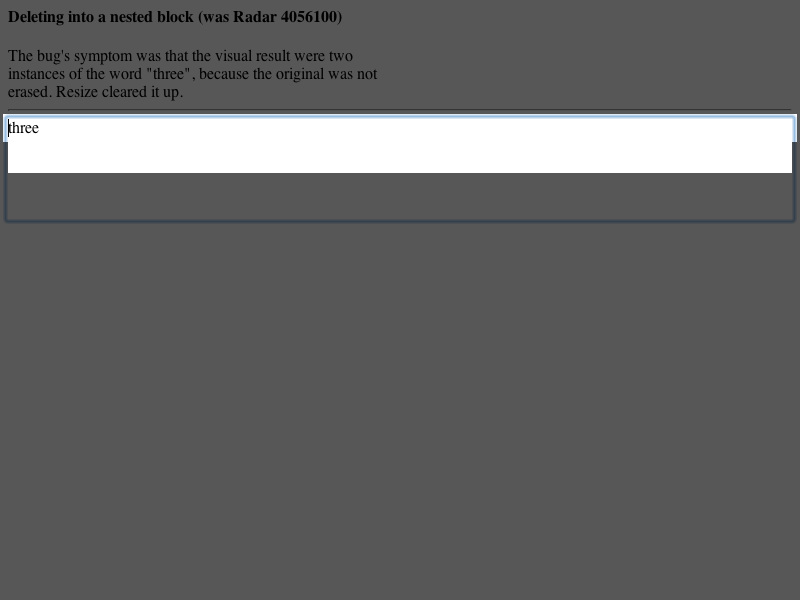
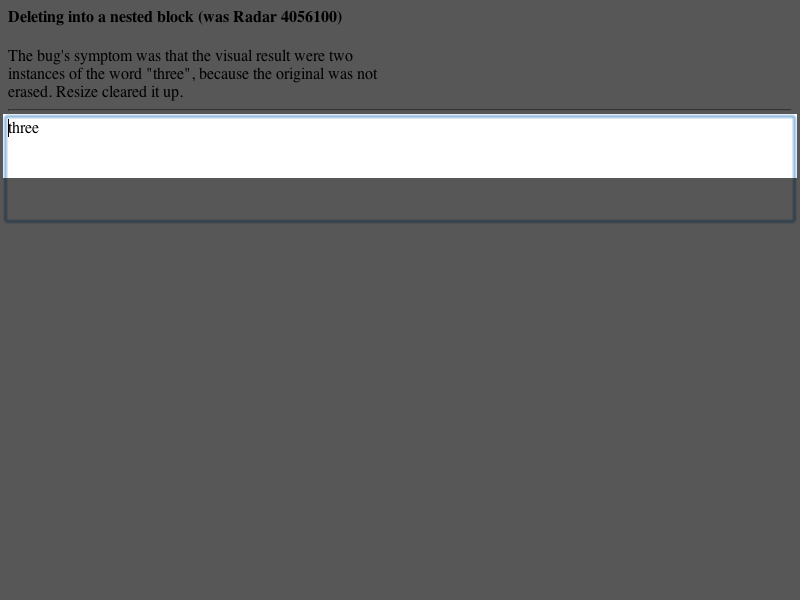
2008-11-21  Simon Fraser  <simon.fraser@apple.com>
Reviewed by Darin Adler

        https://bugs.webkit.org/show_bug.cgi?id=22159

        RenderBox::absoluteClippedOverflowRect() needs to inflate the rect by
        maximalOutlineSize(), since a child might have an outline which projects
        outside the parent overflowRect().

        We also need to ensure that maximalOutlineSize() is updated early in styleDidChange,
        so that it is valid for these repaints.

        Test: fast/repaint/outline-child-repaint.html

        * WebCore.xcodeproj/project.pbxproj:
        * rendering/RenderBox.cpp:
        (WebCore::RenderBox::styleDidChange):
        (WebCore::RenderBox::absoluteClippedOverflowRect):

git-svn-id: https://svn.webkit.org/repository/webkit/trunk@38678 268f45cc-cd09-0410-ab3c-d52691b4dbfc

Changed region(s): [[0.0, 0.24, 1.0, 0.3]]

diff --git a/LayoutTests/fast/repaint/outline-child-repaint.html b/LayoutTests/fast/repaint/outline-child-repaint.html
@@ -1,0 +1,50 @@
+<html>
+<head>
+    <script src="repaint.js" type="text/javascript"></script>
+    <script type="text/javascript">
+        function repaintTest()
+        {
+            var container = document.getElementById('container');
+            container.style.top = "250px";
+        }
+    </script>
+    <style type="text/css" media="screen">
+      #container {
+        position: absolute;
+        left: 10px;
+        top: 150px;
+        width: 200px;
+        height: 50px;
+      }
+      .outlined {
+        outline: 10px solid green;
+        height: 30px;
+        background-color: #DDD;
+      }
+
+      #underlay {
+        position: absolute;
+        top: 240px;
+        left: 0px;
+        width: 200px;
+        height: 30px;
+        border: 10px solid red;
+      }
+    </style>
+</head>
+<body onload="runRepaintTest();">
+    <p>
+        This is a repaint test for <i><a href="https://bugs.webkit.org/show_bug.cgi?id=22159">https://bugs.webkit.org/show_bug.cgi?id=22159</a>
+        Repaint issue with outlines in child objects</i>.
+    </p>
+    <p>If the test passes, you should not see any red below</p>
+    <hr>
+
+    <div id="underlay">
+    </div>
+    <div id="container">
+      <div class="outlined">
+      </div>
+    </div>
+</body>
+</html>

diff --git a/WebCore/rendering/RenderBox.cpp b/WebCore/rendering/RenderBox.cpp
@@ -107,6 +107,11 @@ void RenderBox::styleWillChange(RenderStyle::Diff diff, const RenderStyle* newSt
 
 void RenderBox::styleDidChange(RenderStyle::Diff diff, const RenderStyle* oldStyle)
 {
+    // We need to ensure that view->maximalOutlineSize() is valid for any repaints that happen
+    // during the style change (it's used by absoluteClippedOverflowRect()).
+    if (style()->outlineWidth() > 0 && style()->outlineSize() > maximalOutlineSize(PaintPhaseOutline))
+        static_cast<RenderView*>(document()->renderer())->setMaximalOutlineSize(style()->outlineSize());
+
     RenderObject::styleDidChange(diff, oldStyle);
 
     if (needsLayout() && oldStyle && (oldStyle->height().isPercent() || oldStyle->minHeight().isPercent() || oldStyle->maxHeight().isPercent()))
@@ -204,9 +209,6 @@ void RenderBox::styleDidChange(RenderStyle::Diff diff, const RenderStyle* oldSty
     // Set the text color if we're the body.
     if (isBody())
         document()->setTextColor(style()->color());
-
-    if (style()->outlineWidth() > 0 && style()->outlineSize() > maximalOutlineSize(PaintPhaseOutline))
-        static_cast<RenderView*>(document()->renderer())->setMaximalOutlineSize(style()->outlineSize());
 }
 
 int RenderBox::minPrefWidth() const
@@ -1163,7 +1165,8 @@ IntRect RenderBox::absoluteClippedOverflowRect()
 
     IntRect r = overflowRect(false);
 
-    if (RenderView* v = view())
+    RenderView* v = view();
+    if (v)
         r.move(v->layoutDelta());
 
     if (style()) {
@@ -1171,11 +1174,12 @@ IntRect RenderBox::absoluteClippedOverflowRect()
             // The theme may wish to inflate the rect used when repainting.
             theme()->adjustRepaintRect(this, r);
 
-        // FIXME: Technically the outline inflation could fit within the theme inflation.
-        if (!isInline() && continuation())
-            r.inflate(continuation()->style()->outlineSize());
-        else
-            r.inflate(style()->outlineSize());
+        // We have to use maximalOutlineSize() because a child might have an outline
+        // that projects outside of our overflowRect.
+        if (v) {
+            ASSERT(style()->outlineSize() <= v->maximalOutlineSize());
+            r.inflate(v->maximalOutlineSize());
+        }
     }
     computeAbsoluteRepaintRect(r);
     return r;
